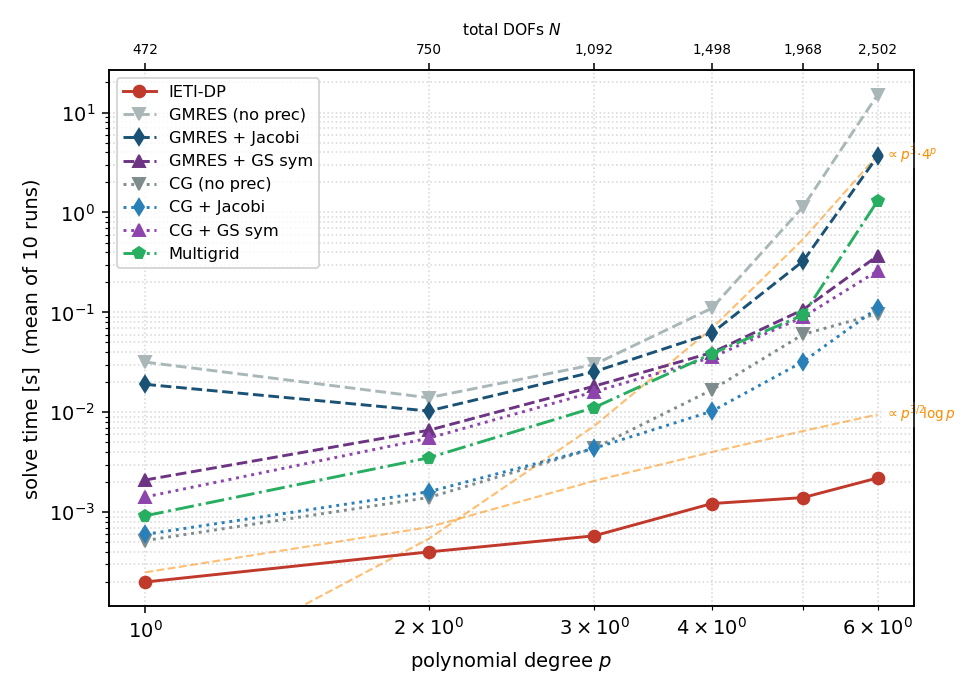
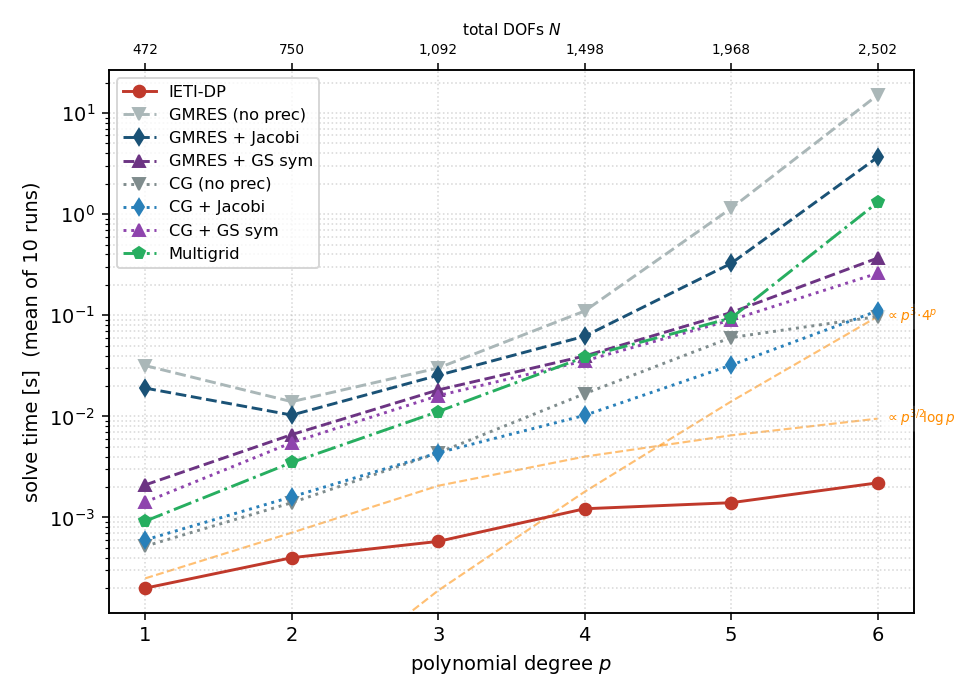
further improvements

diff --git a/examples/run_experiments.py b/examples/run_experiments.py
@@ -439,7 +439,7 @@ def _curve_ref(ax, fn, label, xs_data, ys_data, y_frac=0.20,
         if ratios:
             log_loose = math.log10(max(ratios) * 1.25)
             log_tight = math.log10(min(ratios))
-            log_C = 0.5 * (log_loose + log_tight) if anchor_tight else log_loose
+            log_C = log_tight if anchor_tight else log_loose
         else:
             log_C = ly_min + y_frac * (ly_max - ly_min) - math.log10(ref_vals[0])
     else:
@@ -557,7 +557,7 @@ def plot(cfg):
         xkey   = ax_cfg["xkey"]
         xlabel = ax_cfg["xlabel"]
 
-        # ---- solve-time figure: log-log, x = natural sweep parameter ----
+        # ---- solve-time figure: log-log (degree sweep: semilog-y), x = natural sweep parameter ----
         fig, ax = plt.subplots(figsize=(7, 5))
         all_xs, all_ys = [], []
         for method_name, style, color, label in METHODS:
@@ -567,7 +567,7 @@ def plot(cfg):
             ax.plot(xs, solve, style, color=color, label=label)
             all_xs.extend(xs)
             all_ys.extend(solve)
-        ax.set_xscale("log")
+        ax.set_xscale("linear" if sweep == "degree" else "log")
         ax.set_yscale("log")
         ax.set_xlabel(xlabel)
         ax.set_ylabel("solve time [s]  (mean of 10 runs)")
@@ -594,7 +594,7 @@ def plot(cfg):
         plt.close(fig)
         print(f"wrote {path}")
 
-        # ---- iteration-count figure: log-log, x = natural sweep parameter ----
+        # ---- iteration-count figure: log-log (degree sweep: semilog-y), x = natural sweep parameter ----
         fig2, ax2 = plt.subplots(figsize=(7, 5))
         has_data = False
         all_xs2, all_ys2 = [], []
@@ -610,7 +610,7 @@ def plot(cfg):
             all_ys2.extend(yi)
             has_data = True
         if has_data:
-            ax2.set_xscale("log")
+            ax2.set_xscale("linear" if sweep == "degree" else "log")
             ax2.set_yscale("log")
             ax2.set_xlabel(xlabel)
             ax2.set_ylabel("iteration count (mean of 10 runs)")

diff --git a/latex_experiments/main.tex b/latex_experiments/main.tex
@@ -924,7 +924,8 @@ All measurements are single-processor; the parallel advantage of IETI-DP
     \end{subfigure}
     \caption{Yeti domain: solve time (left) and iteration count (right) as each
     discretization parameter is varied around the reference case ($\npatch = 21$,
-    $p = 2$, $r = 2$).}
+    $p = 2$, $r = 2$). Dashed lines are the predicted asymptotic scalings, shown
+    as worst-case bounds whose constant and sharpness are not guaranteed.}
     \label{fig:yeti-sweeps}
 \end{figure}
 
@@ -1130,7 +1131,8 @@ per PCG iteration.
     \end{subfigure}
     \caption{Teapot surface: solve time (left) and iteration count (right) as each
     discretization parameter is varied around the reference case ($\npatch = 32$,
-    $p = 2$, $r = 2$).}
+    $p = 2$, $r = 2$). Dashed lines are the predicted asymptotic scalings, shown
+    as worst-case bounds whose constant and sharpness are not guaranteed.}
     \label{fig:teapot-sweeps}
 \end{figure}
 
